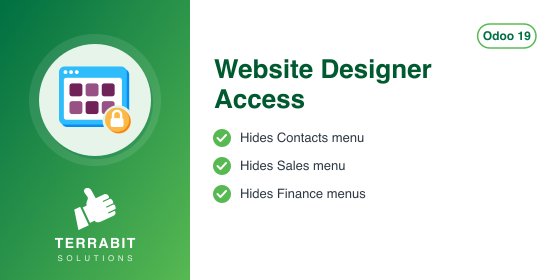
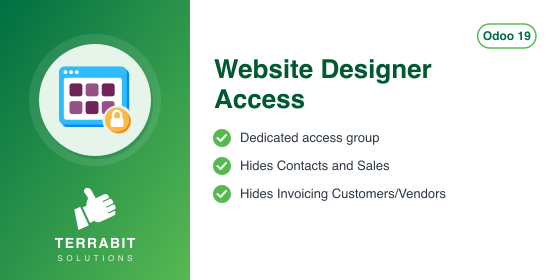
[DOC] 43 modules: Apps descriptions match the code
Apps description audit of 02.11.2026, section B (free modules): each finding
was checked in the code, then readme/DESCRIPTION.md rewritten from what the
module does on 19.0, with a Limitations section where a feature is missing or
incomplete. Summaries and banners that promised the same were aligned.
Version bump and HISTORY entry on each module. No code change.

Assisted-by: Claude Opus 5.5

Changed region(s): [[0.4857, 0.6571, 0.8196, 0.7143], [0.4857, 0.5714, 0.6982, 0.6286], [0.425, 0.4571, 0.6982, 0.5143]]

diff --git a/deltatech_website_access_design/static/description/index.html b/deltatech_website_access_design/static/description/index.html
@@ -5,7 +5,7 @@
     <span class="d-inline-block rounded-4 p-2 flex-shrink-0 my-2" style="background-color:#ffffff;margin-right:24px;"><img src="icon.png" alt="Website Designer Access" style="width:80px;height:80px;border:none;"/></span>
     <div class="flex-grow-1 my-2" style="width:320px;min-width:0;margin-right:24px;">
       <h1 class="fw-bold mb-2" style="color:#ffffff;font-size:36px;line-height:1.1;letter-spacing:-0.5px;border:none;">Website Designer Access</h1>
-      <p class="mb-3" style="font-size:18px;color:#cdeccf;line-height:1.45;">Restrict Contacts, Sales &amp; Finance from web designer users</p>
+      <p class="mb-3" style="font-size:18px;color:#cdeccf;line-height:1.45;">Hide Contacts, Sales &amp; Invoicing menus from website-only users</p>
       <div>
         <span class="d-inline-block rounded-pill fw-bold me-2 mb-2" style="background-color:#ffffff;border:1px solid #ffffff;color:#006F42;padding:6px 14px;font-size:12px;">Odoo 19.0</span>
         <span class="d-inline-block rounded-pill fw-semibold me-2 mb-2" style="border:1px solid #8fd1ad;color:#ffffff;padding:6px 14px;font-size:12px;">Generic Modules</span>
@@ -40,17 +40,39 @@
 <div class="tab-content">
 <div class="tab-pane fade show active py-2" id="tb-panel-overview" style="font-size:16px;line-height:1.65;color:#212529;font-weight:400;">
 <h2 class="fw-bold mb-3" style="border:none;border-left:4px solid #57B952;padding-left:16px;font-size:24px;letter-spacing:-0.3px;line-height:1.2;">Overview</h2>
+<p class="mb-4" style="font-size:16px;line-height:1.65;max-width:780px;">Hides the back-office menus for partners, sales and invoices from users who
+should only work on the website, such as a web designer. The module does not
+grant any website rights: give the designer the usual website access rights
+yourself, then this module keeps the commercial menus out of their view.</p>
+<p><strong>Dedicated access group.</strong> The module creates the group <em>Access Partners, Sale,
+Invoice</em>. On installation only the administrator (and the superuser) are members.</p>
+<p><strong>Restricted menus.</strong> The following menus are reserved to that group, replacing
+the groups they had before:</p>
+<ul class="list-unstyled row row-cols-1 row-cols-md-2 g-2 mt-1 mb-4"><li class="col"><div class="border rounded-3 px-3 py-2 h-100"><span class="fw-bold">Contacts</span><div>(the Contacts app);</div></div></li><li class="col"><div class="border rounded-3 px-3 py-2 h-100"><span class="fw-bold">Sales</span><div>(the Sales app);</div></div></li><li class="col"><div class="border rounded-3 px-3 py-2 h-100"><span class="fw-bold">Invoicing &gt; Customers</span><div>;</div></div></li><li class="col"><div class="border rounded-3 px-3 py-2 h-100"><span class="fw-bold">Invoicing &gt; Vendors</span><div>.</div></div></li></ul>
+<p>Every user who is not in the group, the internal salespeople and accountants
+included, no longer sees these menus. Add each user who still needs them to the
+group in <strong>Settings &gt; Users &amp; Companies &gt; Users</strong>, or in
+<strong>Settings &gt; Users &amp; Companies &gt; Groups</strong>, group <em>Access Partners, Sale, Invoice</em>.</p>
+<p>The module hides menus only. It does not change record rules or access rights,
+so the records stay reachable through other menus, links or smart buttons.</p>
+<h2 class="fw-bold mt-4 mb-3" style="border:none;border-left:4px solid #57B952;padding-left:16px;font-size:24px;letter-spacing:-0.3px;line-height:1.2;">Limitations</h2>
 <ul>
-<li>
-<p class="mb-4" style="font-size:16px;line-height:1.65;max-width:780px;">Features:</p>
-<ul>
-<li>access for web designer</li>
-</ul>
-</li>
+<li>Odoo adds groups to a menu when the module that defines it is updated. After
+  an update of Contacts, the Contacts menu is visible again to all internal
+  users, until this module is updated too.</li>
+<li>Uninstalling the module deletes the group but does not restore the original
+  groups on the four menus.</li>
 </ul>
 </div>
 <div class="tab-pane fade py-2" id="tb-panel-versions" style="font-size:16px;line-height:1.65;color:#212529;font-weight:400;">
 <h2 class="fw-bold mb-3" style="border:none;border-left:4px solid #57B952;padding-left:16px;font-size:24px;letter-spacing:-0.3px;line-height:1.2;">Versions</h2>
+<h2 class="fw-bold mt-4 mb-3" style="border:none;border-left:4px solid #57B952;padding-left:16px;font-size:24px;letter-spacing:-0.3px;line-height:1.2;">19.0.1.0.2 (2026-11-03)</h2>
+<ul>
+<li>Description rewritten from the code: the module grants no website rights; it
+  reserves the Contacts, Sales and Invoicing &gt; Customers / Vendors menus to the
+  group <em>Access Partners, Sale, Invoice</em>. Documented the limitations after a
+  Contacts update and at uninstall.</li>
+</ul>
 <h1 class="fw-bold mt-4 mb-3" style="border:none;border-left:4px solid #57B952;padding-left:16px;font-size:24px;letter-spacing:-0.3px;line-height:1.2;">19.0.1.0.1</h1>
 <ul>
 <li>Own module icon, instead of the generic gears it had.</li>
@@ -183,7 +205,7 @@
               <span class="d-block" style="font-size:13px;color:#3d4752;">Generic Modules</span>
             </span>
           </div>
-          <p class="mb-0" style="font-size:15px;line-height:1.45;color:#3d4752;">Keep CMRs, certificates and other shipping documents in one place</p>
+          <p class="mb-0" style="font-size:15px;line-height:1.45;color:#3d4752;">See the files attached to orders, transfers and invoices from any of them</p>
         </div>
       </a>
     </div>
@@ -243,7 +265,7 @@
               <span class="d-block" style="font-size:13px;color:#3d4752;">Generic Modules</span>
             </span>
           </div>
-          <p class="mb-0" style="font-size:15px;line-height:1.45;color:#3d4752;">Payment analysis report by journal and period, with a filter wizard</p>
+          <p class="mb-0" style="font-size:15px;line-height:1.45;color:#3d4752;">Customer receipts by payment and invoice journal over a period, with a filter wizard</p>
         </div>
       </a>
     </div>

diff --git a/deltatech_website_access_design/__manifest__.py b/deltatech_website_access_design/__manifest__.py
@@ -1,7 +1,7 @@
 {
     "name": "Website web designer access",
-    "summary": "Website designer access without full administrator rights",
-    "version": "19.0.1.0.1",
+    "summary": "Hides the Contacts, Sales and Invoicing customer/vendor menus from users outside a dedicated group",
+    "version": "19.0.1.0.2",
     "author": "Terrabit, Dorin Hongu",
     "website": "https://www.terrabit.ro",
     "license": "OPL-1",

diff --git a/deltatech_website_access_design/README.rst b/deltatech_website_access_design/README.rst
@@ -19,9 +19,42 @@ Website web designer access
 
 |badge1| |badge2|
 
-- Features:
+Hides the back-office menus for partners, sales and invoices from users
+who should only work on the website, such as a web designer. The module
+does not grant any website rights: give the designer the usual website
+access rights yourself, then this module keeps the commercial menus out
+of their view.
 
-  - access for web designer
+**Dedicated access group.** The module creates the group *Access
+Partners, Sale, Invoice*. On installation only the administrator (and
+the superuser) are members.
+
+**Restricted menus.** The following menus are reserved to that group,
+replacing the groups they had before:
+
+- **Contacts** (the Contacts app);
+- **Sales** (the Sales app);
+- **Invoicing > Customers**;
+- **Invoicing > Vendors**.
+
+Every user who is not in the group, the internal salespeople and
+accountants included, no longer sees these menus. Add each user who
+still needs them to the group in **Settings > Users & Companies >
+Users**, or in **Settings > Users & Companies > Groups**, group *Access
+Partners, Sale, Invoice*.
+
+The module hides menus only. It does not change record rules or access
+rights, so the records stay reachable through other menus, links or
+smart buttons.
+
+Limitations
+-----------
+
+- Odoo adds groups to a menu when the module that defines it is updated.
+  After an update of Contacts, the Contacts menu is visible again to all
+  internal users, until this module is updated too.
+- Uninstalling the module deletes the group but does not restore the
+  original groups on the four menus.
 
 **Table of contents**
 
@@ -30,6 +63,14 @@ Website web designer access
 
 Changelog
 =========
+
+19.0.1.0.2 (2026-11-03)
+-----------------------
+
+- Description rewritten from the code: the module grants no website
+  rights; it reserves the Contacts, Sales and Invoicing > Customers /
+  Vendors menus to the group *Access Partners, Sale, Invoice*.
+  Documented the limitations after a Contacts update and at uninstall.
 
 19.0.1.0.1
 ==========

diff --git a/deltatech_website_access_design/readme/DESCRIPTION.md b/deltatech_website_access_design/readme/DESCRIPTION.md
@@ -1,3 +1,31 @@
-- Features:
+Hides the back-office menus for partners, sales and invoices from users who
+should only work on the website, such as a web designer. The module does not
+grant any website rights: give the designer the usual website access rights
+yourself, then this module keeps the commercial menus out of their view.
 
-  - access for web designer
+**Dedicated access group.** The module creates the group *Access Partners, Sale,
+Invoice*. On installation only the administrator (and the superuser) are members.
+
+**Restricted menus.** The following menus are reserved to that group, replacing
+the groups they had before:
+
+- **Contacts** (the Contacts app);
+- **Sales** (the Sales app);
+- **Invoicing > Customers**;
+- **Invoicing > Vendors**.
+
+Every user who is not in the group, the internal salespeople and accountants
+included, no longer sees these menus. Add each user who still needs them to the
+group in **Settings > Users & Companies > Users**, or in
+**Settings > Users & Companies > Groups**, group *Access Partners, Sale, Invoice*.
+
+The module hides menus only. It does not change record rules or access rights,
+so the records stay reachable through other menus, links or smart buttons.
+
+## Limitations
+
+- Odoo adds groups to a menu when the module that defines it is updated. After
+  an update of Contacts, the Contacts menu is visible again to all internal
+  users, until this module is updated too.
+- Uninstalling the module deletes the group but does not restore the original
+  groups on the four menus.

diff --git a/deltatech_website_access_design/readme/HISTORY.md b/deltatech_website_access_design/readme/HISTORY.md
@@ -1,3 +1,10 @@
+## 19.0.1.0.2 (2026-11-03)
+
+- Description rewritten from the code: the module grants no website rights; it
+  reserves the Contacts, Sales and Invoicing > Customers / Vendors menus to the
+  group *Access Partners, Sale, Invoice*. Documented the limitations after a
+  Contacts update and at uninstall.
+
 # 19.0.1.0.1
 
 - Own module icon, instead of the generic gears it had.
